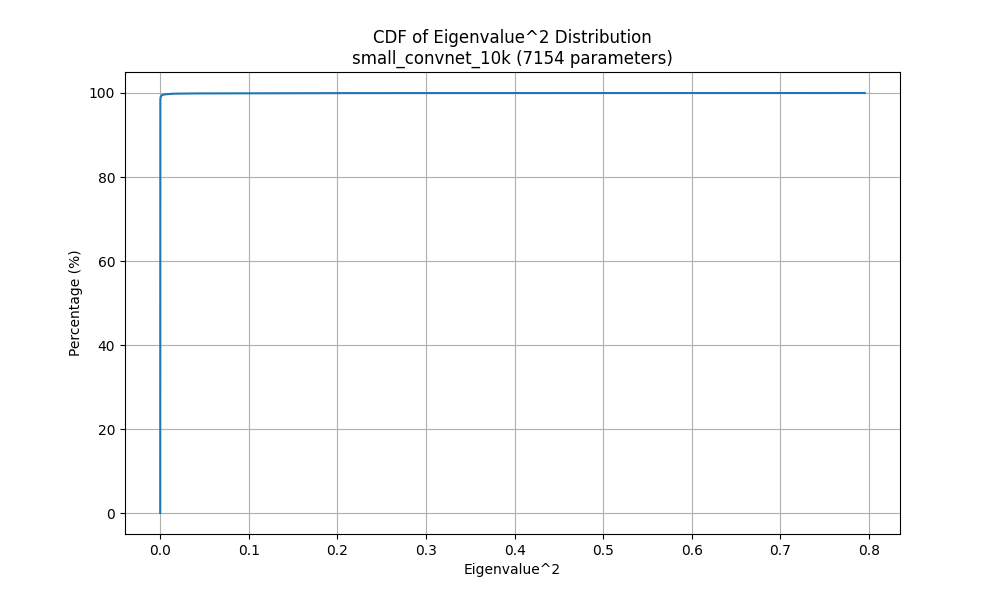
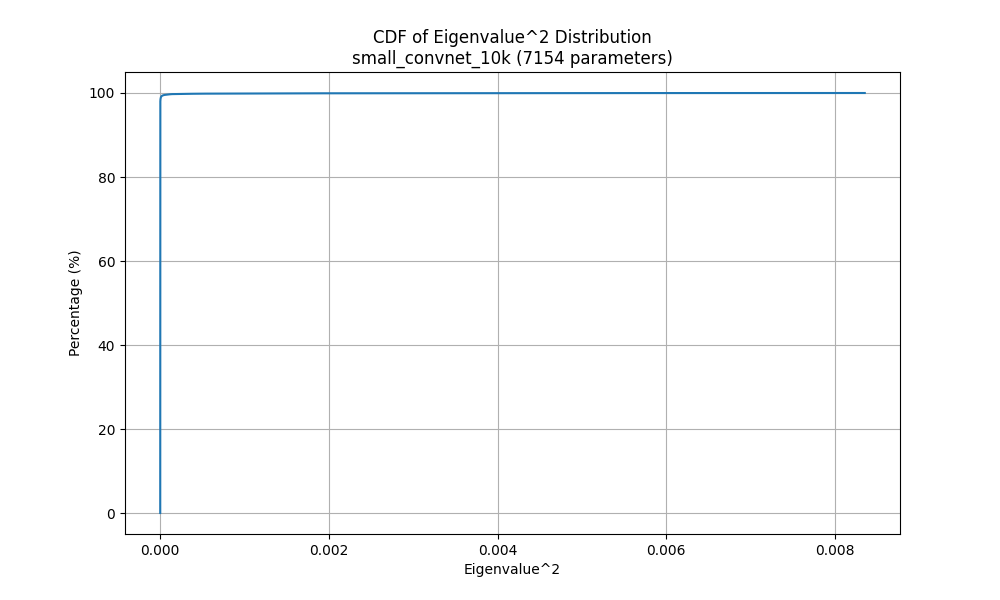
fisher info rsvd stuff, (mid-work, rsvd and normal fisher do not match yet)

diff --git a/model_interpretation/fisher_information_rsvd.py b/model_interpretation/fisher_information_rsvd.py
@@ -12,11 +12,6 @@ from tqdm import tqdm
 # Add the project root to the path
 sys.path.append(os.path.dirname(os.path.dirname(os.path.abspath(__file__))))
 
-from utils.data_loader import MNISTDataLoader
-from models.specific_models.ShiftInvariantCNN import ShiftInvariantCNN
-from models.specific_models.StandardFullyConnected import StandardFullyConnected
-from models.specific_models.LinearModel import LinearModel
-
 
 def apply_fisher_to_matrix(model, data_loader, X, device):
     """
@@ -36,12 +31,12 @@ def apply_fisher_to_matrix(model, data_loader, X, device):
     
     # Initialize result matrix Y = A*X
     Y = torch.zeros((num_params, k), device=device)
-    
+    error = 0
     # Keep track of samples processed
     total_samples = 0
     
     # Process batches
-    for batch_idx, (data, _) in enumerate(tqdm(data_loader, desc="Applying Fisher")):
+    for batch_idx, (data, _) in enumerate(tqdm(data_loader, desc="Computing fisher information matrix projection")):
         batch_size = data.size(0)
         total_samples += batch_size
         data = data.to(device)
@@ -67,15 +62,17 @@ def apply_fisher_to_matrix(model, data_loader, X, device):
                 
                 # Extract gradient
                 grad = torch.cat([p.grad.detach().flatten() for p in model.parameters()])
-                
+                grad = grad.view(-1, 1) # coloumn vector
                 # Weight by probability: p * grad * (grad^T * X)
                 prob = sample_probs[class_idx].item()
-                Y += prob * torch.outer(grad, torch.matmul(grad, X))
+                info = prob * grad @ grad.T @ X
+                error += prob*torch.linalg.norm(grad, ord=2) - torch.linalg.norm(info, ord=2)
+                Y += info
     
     # Average over total samples
     Y /= total_samples
-    
-    return Y
+    error = error / total_samples
+    return Y, error
 
 
 def calculate_fisher_rsvd(model, data_loader, k, power_iterations=1):
@@ -103,26 +100,30 @@ def calculate_fisher_rsvd(model, data_loader, k, power_iterations=1):
     X = torch.randn(num_params, k, device=device)
     
     # Step 2: For i = 0, ..., q, calculate the QR factorization AX = QR and update X = A*Q
-    for i in range(power_iterations + 1):
-        print(f"Step 2.{i}: Power iteration {i}/{power_iterations}")
+    for i in range(power_iterations):
+        print(f"Step 2.{i}: range finder: power iteration {i+1}/{power_iterations}")
         
+        # NOTE: this is not the proper way to do it. need  normalization to avoid rounding errors, see algorithm 4.4 at Halko.
+        # this is OK for single power itterations (no power iterations)
         # Apply Fisher Information Matrix to X
-        AX = apply_fisher_to_matrix(model, data_loader, X, device)
+        AX, e = apply_fisher_to_matrix(model, data_loader, X, device)
+
         
-        # QR factorization
-        Q, R = torch.linalg.qr(AX)
-        
-        # Update X = A*Q
-        if i < power_iterations:  # Skip the last A*Q calculation if this is the last iteration
-            X = apply_fisher_to_matrix(model, data_loader, Q, device)
+    # Step 3: QR factorization
+    print("Step 3: QR decomposition (Q = estimated range basis)")
+    Q, R = torch.linalg.qr(AX)
     
-    # Step 3: Calculate the SVD X = VΣU*
-    print("Step 3: Calculating SVD of final matrix")
+    # Step 4: project onto estimated range
+    print("Step 4: project into estimated Q range")
+    X, error = apply_fisher_to_matrix(model, data_loader, Q, device)
+    print("Error term = ", error)
+    # Step 5: Calculate the SVD X = VΣU*
+    print("Step 5: Calculating SVD of final matrix")
     # Note: In PyTorch, SVD returns U, S, V where X = USV^T
     U_hat, S, V_hat = torch.linalg.svd(X, full_matrices=False)
     
-    # Step 4: Set U = QÛ
-    print("Step 4: Computing final U = QÛ")
+    # Step 6: Set U = QÛ
+    print("Step 6: Computing Eigenvectors U = QU' (U' is the final matrix eigenvectors)")
     # Fix: U_hat is already the proper U from the algorithm, so we need to use V_hat
     # The proper algorithm mapping to PyTorch's SVD:
     # X = VΣU* in algorithm → X = USV^T in PyTorch

diff --git a/model_interpretation/fisher_information.py b/model_interpretation/fisher_information.py
@@ -118,9 +118,9 @@ def analyze_fisher_information(fisher_info, model, model_name, output_dir):
     
     # Plot eigenvalue distribution
     plt.figure(figsize=(10, 6))
-    plt.hist(eigenvalues**2, bins=50)
-    plt.title(f'Eigenvalue^2 Distribution of Fisher Information Matrix\n{model_name} ({num_params} parameters)')
-    plt.xlabel('Eigenvalue^2')
+    plt.hist(eigenvalues, bins=50)
+    plt.title(f'Eigenvalue Distribution of Fisher Information Matrix\n{model_name} ({num_params} parameters)')
+    plt.xlabel('Eigenvalue')
     plt.ylabel('count')
     plt.yscale('log')
     plt.grid(True)
@@ -129,10 +129,10 @@ def analyze_fisher_information(fisher_info, model, model_name, output_dir):
     
     # Plot CDF of eigenvalues
     plt.figure(figsize=(10, 6))
-    sorted_evals = np.sort(eigenvalues**2)
+    sorted_evals = np.sort(eigenvalues)
     cdf = np.arange(1, len(sorted_evals) + 1) / len(sorted_evals) * 100
     plt.plot(sorted_evals, cdf)
-    plt.title(f'CDF of Eigenvalue^2 Distribution\n{model_name} ({num_params} parameters)')
+    plt.title(f'CDF of Eigenvalue Distribution\n{model_name} ({num_params} parameters)')
     plt.xlabel('Eigenvalue^2')
     plt.ylabel('Percentage (%)')
     plt.grid(True)
@@ -144,7 +144,7 @@ def analyze_fisher_information(fisher_info, model, model_name, output_dir):
     ccdf = 1 - (np.arange(1, len(sorted_evals) + 1) / len(sorted_evals))  # Complementary CDF as ratio
     plt.plot(sorted_evals, ccdf)
     plt.title(f'Complementary CDF (1-CDF) of Eigenvalue^2 Distribution\n{model_name} ({num_params} parameters)')
-    plt.xlabel('Eigenvalue^2')
+    plt.xlabel('Eigenvalue')
     plt.ylabel('Ratio')
     plt.xscale('log')  # Add log scale to x-axis
     plt.yscale('log')

diff --git a/docs/papers.md b/docs/papers.md
@@ -10,3 +10,6 @@ random projection for low rank approximation: https://tropp.caltech.edu/papers/H
 nn pruning https://arxiv.org/abs/2004.14340
 
 Rob webber talk https://www.youtube.com/watch?v=YXrYdRjK_xc
+
+# general stuff
+https://arxiv.org/abs/1802.10026?utm_source=chatgpt.com - loss minima lies on a manifold (different random found minimas are connected via low loss path)
